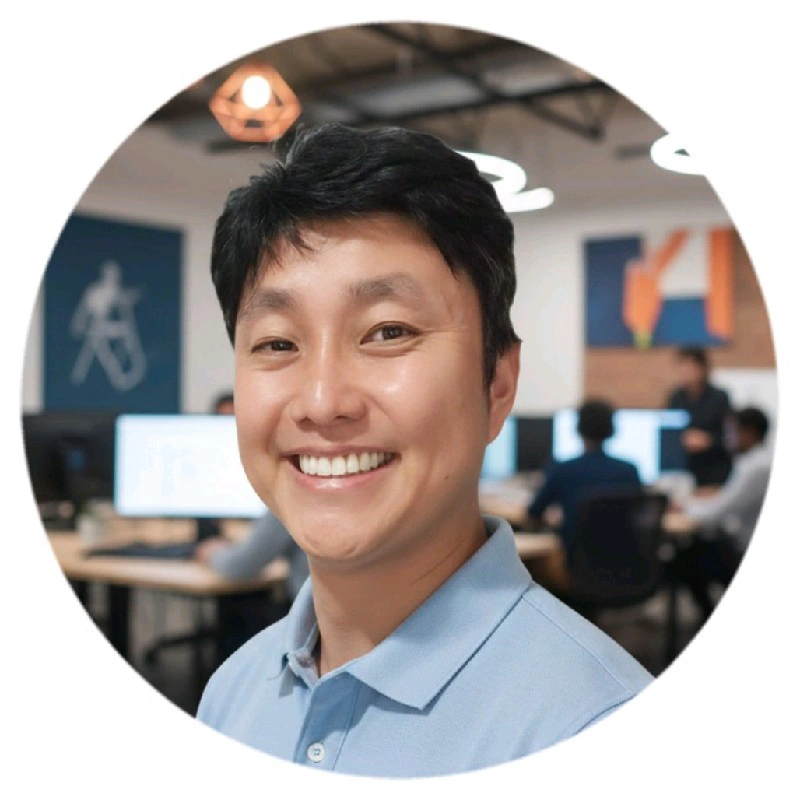
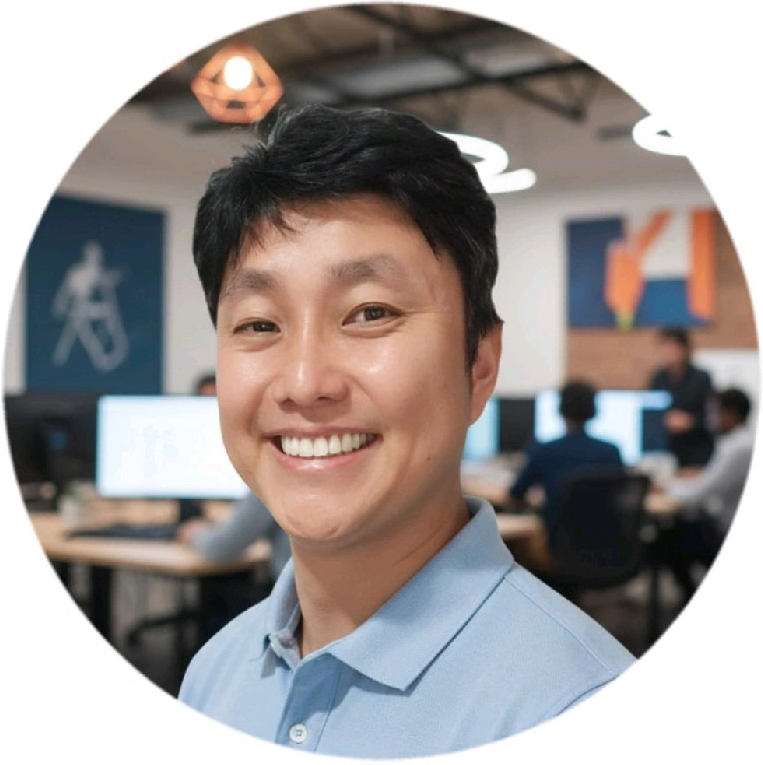
topo do Main Ok

diff --git a/Nakata_dev/index.html b/Nakata_dev/index.html
@@ -14,6 +14,7 @@
     <title>Nakata-dev</title>
 </head>
 <body>
+<!--1º Etapa do Desenvolvimento do meu Portifólio-->    
     <header>
         <nav id="menu">
             <ul>
@@ -25,9 +26,32 @@
             </ul>
         </nav>
     </header>
-
+<!--2º Etapa de Desenvolvimento-->
     <main>
-        Em breve...
+        <section id="ficha">
+           <img src="imagens/Perfil - Foto.png" alt="Foto_Nakata_dev" class="foto">        
+
+            <h1>Nakata-Dev</h1>
+
+            <p>Meu nome é Ailton A. Nakata, sou estudante de Tecnologia desde Junho/2024 e hoje busco me especializar na área de programação, desenvolvendo sites/aplicações. Atualmente estou a procura de oportunidade para poder me desenvolver cada vez mais nessa área.</p>
+
+            
+            <div id="social">
+                <a href="https://www.linkedin.com/in/ailton-a-nakata-51205a327/" target="_blank" rel="nofollow"><i class="fa-brands fa-linkedin"></i></a>
+                
+                <a href="https://github.com/nakata-dev/html-css" target="_blank" rel="nofollow"><i class="fa-brands fa-square-github"></i></a>
+                
+                <a href="https://www.youtube.com/@Akioartes" target="_blank" rel="nofollow"><i class="fa-brands fa-youtube"></i></a>
+                
+                <a href="https://www.instagram.com/nakata_dev/" target="_blank" rel="nofollow"><i class="fa-brands fa-instagram"></i></a>
+                
+                <a href="https://nakata-dev.github.io/portifolio/" target="_blank" rel="nofollow"><i class="fa-solid fa-house"></i></a>            
+            </div>
+        </section>
+
+        <section id="detalhes">
+
+        </section>
     </main>
 
     <footer>

diff --git a/Nakata_dev/estilos/style.css b/Nakata_dev/estilos/style.css
@@ -54,5 +54,60 @@ body{
 }
 
 main{
-   
+   display: grid; /*tranforma o main em grades*/
+   grid-template-columns: 1fr 90vw 1fr;
+   gap: 20px;
+   margin-top: 20px;/*cria uma margin de 20px na parte superior do main*/
+}
+section#ficha{
+    background-color: var(--fundo-card);
+    padding: 20px;
+    border-radius: 10px;
+    grid-column: 2; /*a seção ficha vai ocupar a coluna 2 para ficar no centro*/
+}
+main p{
+    text-align: justify;
+    text-indent: 20px;
+    line-height: 1.8;
+    padding: 15px;
+}
+
+section#ficha img.foto{
+    width: 200px;
+    aspect-ratio:1/1;
+    object-fit: cover; /*preenche o espaço com foto*/
+    overflow: hidden; /*caso não fique certo, use overflow:hidden;*/
+    border-radius: 50%;
+    border: 5px solid var(--fundo-card);/*borda interna*/
+    outline: 5px solid var(--destaque);/*borda externa*/
+    display: block;
+    margin: auto;
+    margin-bottom: 15px;
+}
+
+section#ficha h1{
+    color: var(--destaque);
+    font-size: 1.5em;
+    text-align: center;
+    padding: 15px;
+}
+
+div#social{
+    display: flex; /*faz os  icônes ocuparem o mínimo de espaço*/
+    justify-content: center;/*centraliza o conteúdo na horizontal*/
+    align-items: center;/*centraliza o conteúdo na vertical*/
+    font-size: 1.7em;
+    gap: 2em;
+    margin-top: 10px;
+
+}
+
+/*Alterando a cor e o hover do link das redes*/
+div#social a{
+    color: var(--destaque);
+    transition: color 0.5s;
+}
+
+div#social a:hover{
+    color: var(--destaque-inverso);
 }
